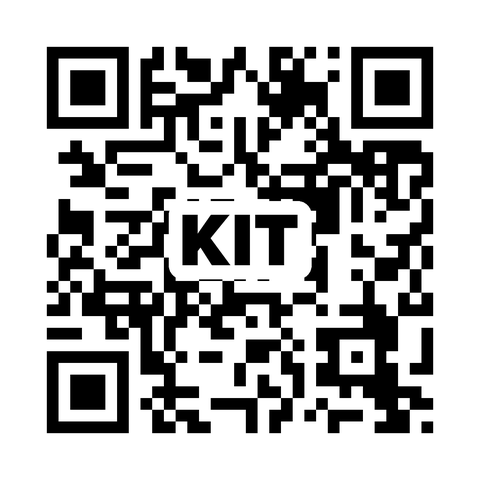
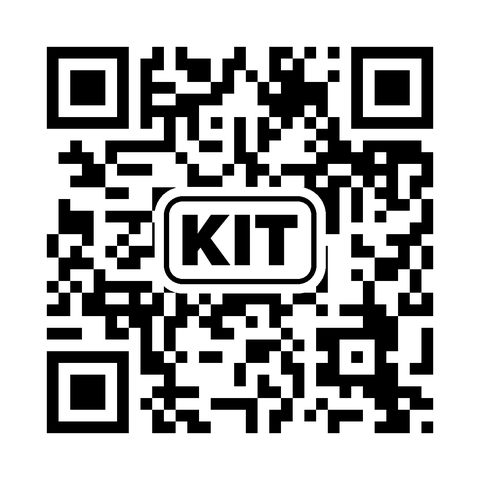
Black border around KIT in QR

Changed region(s): [[0.3125, 0.375, 0.6875, 0.625]]

diff --git a/index.html b/index.html
@@ -8,21 +8,21 @@
   <meta name="theme-color" content="#000000">
   <meta property="og:title" content="Kyle on Kit">
   <meta property="og:description" content="Drummer | Audio/Video Engineer | Gig Vlogs">
-  <meta property="og:image" content="assets/og-image.png?v=20261124150824">
+  <meta property="og:image" content="assets/og-image.png?v=20261124182346">
   <meta property="og:type" content="website">
   <meta name="twitter:card" content="summary_large_image">
-  <link rel="icon" type="image/png" href="assets/favicon.png?v=20261124150824">
-  <link rel="apple-touch-icon" href="assets/favicon.png?v=20261124150824">
+  <link rel="icon" type="image/png" href="assets/favicon.png?v=20261124182346">
+  <link rel="apple-touch-icon" href="assets/favicon.png?v=20261124182346">
   <link rel="preconnect" href="https://fonts.googleapis.com">
   <link rel="preconnect" href="https://fonts.gstatic.com" crossorigin>
   <link href="https://fonts.googleapis.com/css2?family=Montserrat:wght@500;700;900&display=swap" rel="stylesheet">
-  <link rel="stylesheet" href="style.css?v=20261124150824">
+  <link rel="stylesheet" href="style.css?v=20261124182346">
 </head>
 <body>
   <div class="glow" aria-hidden="true"></div>
   <main class="wrap">
     <header class="head">
-      <h1 class="logo"><img src="assets/logo.png?v=20261124150824" alt="Kyle on Kit" width="1063" height="580"></h1>
+      <h1 class="logo"><img src="assets/logo.png?v=20261124182346" alt="Kyle on Kit" width="1063" height="580"></h1>
       <p class="tagline" id="tagline"></p>
       <nav class="socials" id="socials" aria-label="Social profiles"></nav>
     </header>
@@ -31,14 +31,14 @@
 
     <section class="qr">
       <a href="https://kyleonkit.github.io" aria-label="kyleonkit.github.io">
-        <img src="assets/qr.png?v=20261124150824" alt="QR code for kyleonkit.github.io" width="180" height="180" loading="lazy">
+        <img src="assets/qr.png?v=20261124182346" alt="QR code for kyleonkit.github.io" width="180" height="180" loading="lazy">
       </a>
       <p class="qr-label">Share this page</p>
     </section>
     <footer class="foot" id="footer"></footer>
   </main>
 
-  <script src="links.js?v=20261124150824"></script>
-  <script src="app.js?v=20261124150824"></script>
+  <script src="links.js?v=20261124182346"></script>
+  <script src="app.js?v=20261124182346"></script>
 </body>
 </html>

diff --git a/links.js b/links.js
@@ -33,7 +33,7 @@ window.SITE = {
 
     {
       group: "Lame Genie",
-      logo: "assets/band-lame-genie.png?v=20261124150824",
+      logo: "assets/band-lame-genie.png?v=20261124182346",
       logoStyle: "wide",
       subtitle: "Video game music covers",
       links: [
@@ -48,7 +48,7 @@ window.SITE = {
     },
     {
       group: "Run For Covers",
-      logo: "assets/band-run-for-covers.png?v=20261124150824",
+      logo: "assets/band-run-for-covers.png?v=20261124182346",
       logoStyle: "boxed",
       subtitle: "Your favorite cover band's favorite cover band",
       links: [

diff --git a/tools/make_brand.py b/tools/make_brand.py
@@ -142,9 +142,14 @@ def qr_image(badge, size, quiet=4):
     bw = int(size * 0.24)
     b = tint(badge, (0, 0, 0))
     b = b.resize((bw, round(bw * b.height / b.width)), Image.LANCZOS)
-    pad = int(px * 1.2)
+    pad = int(px * 1.6)
+    border = max(2, int(px * 0.45))           # black border around the KIT pad
+    gap = int(px * 0.8)                       # white space outside the border
     x0, y0 = (size - b.width) // 2, (size - b.height) // 2
-    d.rounded_rectangle([x0 - pad, y0 - pad, x0 + b.width + pad, y0 + b.height + pad], radius=pad, fill=(255, 255, 255))
+    box = [x0 - pad, y0 - pad, x0 + b.width + pad, y0 + b.height + pad]
+    d.rounded_rectangle([box[0] - gap, box[1] - gap, box[2] + gap, box[3] + gap],
+                        radius=pad + gap, fill=(255, 255, 255))
+    d.rounded_rectangle(box, radius=pad, fill=(255, 255, 255), outline=(0, 0, 0), width=border)
     im.paste(b, (x0, y0), b)
     return im
 
